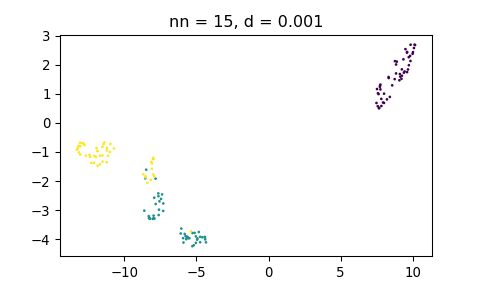
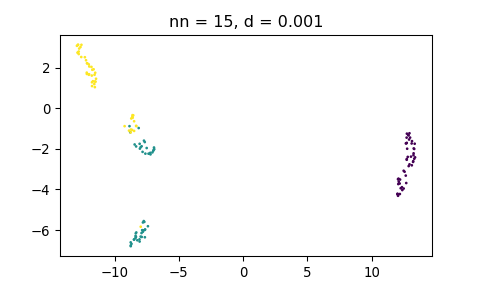
Updated umap_config with fixed seed. Using umap_config.

diff --git a/umap_compare_iris.md b/umap_compare_iris.md
@@ -38,18 +38,18 @@ iris_mtx <- iris[, c(1:4)]
 ```
 
 ``` r
-# Perform UMAP and plot
+# Utility to perform UMAP and plot
+
 draw_umap <- function(data_mtx, labels, method = '', n_neighbors = 15, min_dist = 0.1) {
       
    umap_config <- umap.defaults
    umap_config$n_neighbors <- n_neighbors
    umap_config$min_dist <- min_dist
+   umap_config$random_state <- 42         # Fix the seed
       
    u <- umap(data_mtx, 
              method = method, 
-             min_dist = min_dist, 
-             n_neighbors = n_neighbors, 
-             random_state=42)
+             config = umap_config)
    
    # Create data.frame with UMAP coordinates
    df_umap <- as.data.frame(u$layout)
@@ -68,74 +68,76 @@ draw_umap <- function(data_mtx, labels, method = '', n_neighbors = 15, min_dist 
 
 #### Naive
 
+Calling `umap::umap` directly:
+
 ``` r
 u <- umap(iris_mtx, method="naive", min_dist = 0.001)
 head(u$layout)
-##          [,1]       [,2]
-## [1,] 12.23124 -0.3331542
-## [2,] 10.70993 -1.3126603
-## [3,] 10.56486 -0.7540255
-## [4,] 10.52019 -0.6786672
-## [5,] 12.34705 -0.5749329
-## [6,] 13.28508 -0.5979149
+##          [,1]     [,2]
+## [1,] 14.36673 4.376087
+## [2,] 15.60657 3.121390
+## [3,] 15.15142 2.840892
+## [4,] 15.28618 2.753419
+## [5,] 14.49462 4.497838
+## [6,] 14.07322 5.313414
 
 u <- umap(iris_mtx, method="naive", min_dist = 0.1)
 head(u$layout)
-##          [,1]       [,2]
-## [1,] 7.672398  0.7412341
-## [2,] 8.689200  2.4588411
-## [3,] 9.205215  2.0966858
-## [4,] 9.309127  2.0443477
-## [5,] 7.600816  0.5568721
-## [6,] 8.009618 -0.3382019
+##          [,1]        [,2]
+## [1,] 11.80572 -1.44453845
+## [2,] 10.91123  0.08487131
+## [3,] 11.29173  0.45482082
+## [4,] 11.50066  0.52628853
+## [5,] 11.95197 -1.33661190
+## [6,] 12.43361 -2.07485857
 
 u <- umap(iris_mtx, method="naive", min_dist = 0.99)
 head(u$layout)
-##          [,1]      [,2]
-## [1,] 15.72760 -6.823932
-## [2,] 12.87749 -3.536282
-## [3,] 12.29146 -5.260016
-## [4,] 11.70992 -5.043886
-## [5,] 14.76432 -7.472575
-## [6,] 15.86100 -9.229200
+##          [,1]     [,2]
+## [1,] 18.32657 5.640389
+## [2,] 21.17542 2.959346
+## [3,] 20.63161 4.782271
+## [4,] 21.19651 4.509576
+## [5,] 18.32815 6.075485
+## [6,] 16.66533 7.778181
 ```
 
 ![](umap_compare_iris_files/figure-gfm/naive-plot-1.png)<!-- -->![](umap_compare_iris_files/figure-gfm/naive-plot-2.png)<!-- -->![](umap_compare_iris_files/figure-gfm/naive-plot-3.png)<!-- -->
 
 #### Using Python backend
 
-Embeddings do not change:
+Calling `umap::umap` directly. Embeddings do not change:
 
 ``` r
 u <- umap(iris_mtx, method="umap-learn", min_dist = 0.001)
 head(u$layout)
-##          [,1]      [,2]
-## [1,] 6.003870  1.324167
-## [2,] 5.178583 -1.335126
-## [3,] 5.838859 -1.043555
-## [4,] 5.925804 -1.367196
-## [5,] 6.652371  1.206479
-## [6,] 6.416837  2.649150
+##           [,1]       [,2]
+## [1,]  8.819205 -1.1664281
+## [2,] 10.807510  0.3293927
+## [3,] 11.711818 -0.3999388
+## [4,] 11.658015  0.5556060
+## [5,]  9.282158 -0.7471911
+## [6,]  7.697951  0.4486978
 
 u <- umap(iris_mtx, method="umap-learn", min_dist = 0.1)
 head(u$layout)
-##          [,1]      [,2]
-## [1,] 6.003870  1.324167
-## [2,] 5.178583 -1.335126
-## [3,] 5.838859 -1.043555
-## [4,] 5.925804 -1.367196
-## [5,] 6.652371  1.206479
-## [6,] 6.416837  2.649150
+##           [,1]       [,2]
+## [1,]  8.819205 -1.1664281
+## [2,] 10.807510  0.3293927
+## [3,] 11.711818 -0.3999388
+## [4,] 11.658015  0.5556060
+## [5,]  9.282158 -0.7471911
+## [6,]  7.697951  0.4486978
 
 u <- umap(iris_mtx, method="umap-learn", min_dist = 0.99)
 head(u$layout)
-##          [,1]      [,2]
-## [1,] 6.003870  1.324167
-## [2,] 5.178583 -1.335126
-## [3,] 5.838859 -1.043555
-## [4,] 5.925804 -1.367196
-## [5,] 6.652371  1.206479
-## [6,] 6.416837  2.649150
+##           [,1]       [,2]
+## [1,]  8.819205 -1.1664281
+## [2,] 10.807510  0.3293927
+## [3,] 11.711818 -0.3999388
+## [4,] 11.658015  0.5556060
+## [5,]  9.282158 -0.7471911
+## [6,]  7.697951  0.4486978
 ```
 
 ![](umap_compare_iris_files/figure-gfm/learn-d-plot-1.png)<!-- -->![](umap_compare_iris_files/figure-gfm/learn-d-plot-2.png)<!-- -->![](umap_compare_iris_files/figure-gfm/learn-d-plot-3.png)<!-- -->
@@ -147,7 +149,7 @@ u$UMAP
 ## UMAP(a=True, angular_rp_forest=False, b=True, init='spectral',
 ##    learning_rate=1.0, local_connectivity=1.0, metric='euclidean',
 ##    metric_kwds=None, min_dist=0.99, n_components=2, n_epochs=200,
-##    n_neighbors=15, negative_sample_rate=5, random_state=805123336,
+##    n_neighbors=15, negative_sample_rate=5, random_state=456292475,
 ##    repulsion_strength=1.0, set_op_mix_ratio=1.0, spread=1.0,
 ##    target_metric='categorical', target_metric_kwds=None,
 ##    target_n_neighbors=-1, target_weight=0.5, transform_queue_size=4.0,
@@ -164,35 +166,37 @@ u$config$umap_learn_args
 
 #### Naive
 
+Calling `umap::umap` directly:
+
 ``` r
 u <- umap(iris_mtx, method="naive", n_neighbors = 3)
 ## Warning: failed creating initial embedding; using random embedding insteadx
 head(u$layout)
-##          [,1]      [,2]
-## [1,] 14.90616 -2.606132
-## [2,] 12.09402  0.754079
-## [3,] 10.88311  2.152049
-## [4,] 11.05938  1.891364
-## [5,] 14.99472 -2.536860
-## [6,] 13.67929 -3.709823
+##           [,1]       [,2]
+## [1,] 13.012195 -0.4292505
+## [2,]  9.046631  3.8466508
+## [3,] 18.047673 -0.4520897
+## [4,] 18.228759 -0.6641982
+## [5,] 12.906302 -0.3612390
+## [6,] 14.567439 -1.1256196
 u <- umap(iris_mtx, method="naive", n_neighbors = 5)
 head(u$layout)
-##          [,1]       [,2]
-## [1,] 17.21133 -0.3841951
-## [2,] 13.58648  2.2131810
-## [3,] 15.42747  0.7735690
-## [4,] 15.21598  1.1838502
-## [5,] 16.99997 -0.5407703
-## [6,] 18.11772 -1.8737140
+##          [,1]     [,2]
+## [1,] 13.99652 2.787580
+## [2,] 13.33622 5.437241
+## [3,] 14.87956 5.423412
+## [4,] 14.68465 5.548070
+## [5,] 13.66455 2.668442
+## [6,] 13.33333 1.144774
 u <- umap(iris_mtx, method="naive", n_neighbors = 30)
 head(u$layout)
-##            [,1]     [,2]
-## [1,] 1.87620769 10.23501
-## [2,] 0.47491206 11.17115
-## [3,] 0.25068178 10.56489
-## [4,] 0.07403647 10.83421
-## [5,] 1.67211635 10.44052
-## [6,] 2.57906196 10.67320
+##          [,1]     [,2]
+## [1,] 6.392613 7.826313
+## [2,] 4.848173 7.097369
+## [3,] 4.846648 7.496080
+## [4,] 4.652983 7.400787
+## [5,] 6.289593 7.688508
+## [6,] 7.229570 6.854126
 ```
 
     ## Warning: failed creating initial embedding; using random embedding insteadx
@@ -201,36 +205,36 @@ head(u$layout)
 
 #### Using Python backend
 
-Results are sensitive on `n_neighbors`:
+Calling `umap::umap` directly. Results are sensitive on `n_neighbors`:
 
 ``` r
 u <- umap(iris_mtx, method="umap-learn", n_neighbors = 3)
 head(u$layout)
-##          [,1]     [,2]
-## [1,] 5.807310 5.037849
-## [2,] 5.161141 7.221533
-## [3,] 8.344112 2.859802
-## [4,] 8.429193 2.616889
-## [5,] 6.159882 5.051479
-## [6,] 3.812690 3.147356
+##           [,1]       [,2]
+## [1,]  8.304262 2.93222761
+## [2,] 10.162989 0.03012535
+## [3,] 11.879377 3.14569926
+## [4,] 12.019746 3.04424500
+## [5,]  8.527401 3.16690326
+## [6,]  6.597533 5.04218483
 u <- umap(iris_mtx, method="umap-learn", n_neighbors = 5)
 head(u$layout)
 ##           [,1]       [,2]
-## [1,]  9.696502  1.2050042
-## [2,]  8.390391  4.7996664
-## [3,]  7.742820  3.0380390
-## [4,]  7.626956  3.5078447
-## [5,] 10.250016  1.2330544
-## [6,] 10.622615 -0.6588516
+## [1,]  9.675344 -0.1944102
+## [2,]  7.249076 -1.3784549
+## [3,]  6.611701 -0.2731864
+## [4,]  6.393136 -0.1056757
+## [5,]  9.615414  0.2248145
+## [6,] 10.173408  2.3548005
 u <- umap(iris_mtx, method="umap-learn", n_neighbors = 30)
 head(u$layout)
 ##          [,1]      [,2]
-## [1,] 8.543049 -2.910917
-## [2,] 9.978408 -4.501753
-## [3,] 9.569179 -4.663228
-## [4,] 9.709599 -4.946994
-## [5,] 8.324167 -3.412310
-## [6,] 7.398268 -2.479999
+## [1,] 6.673540 -6.023654
+## [2,] 4.093072 -6.217984
+## [3,] 4.929948 -6.488612
+## [4,] 4.932714 -6.784687
+## [5,] 6.224775 -6.016509
+## [6,] 6.832729 -4.785547
 ```
 
 ![](umap_compare_iris_files/figure-gfm/learn-nn-plot-1.png)<!-- -->![](umap_compare_iris_files/figure-gfm/learn-nn-plot-2.png)<!-- -->![](umap_compare_iris_files/figure-gfm/learn-nn-plot-3.png)<!-- -->
@@ -242,7 +246,7 @@ u$UMAP
 ## UMAP(a=True, angular_rp_forest=False, b=True, init='spectral',
 ##    learning_rate=1.0, local_connectivity=1.0, metric='euclidean',
 ##    metric_kwds=None, min_dist=0.1, n_components=2, n_epochs=200,
-##    n_neighbors=30, negative_sample_rate=5, random_state=805123336,
+##    n_neighbors=30, negative_sample_rate=5, random_state=456292475,
 ##    repulsion_strength=1.0, set_op_mix_ratio=1.0, spread=1.0,
 ##    target_metric='categorical', target_metric_kwds=None,
 ##    target_n_neighbors=-1, target_weight=0.5, transform_queue_size=4.0,
